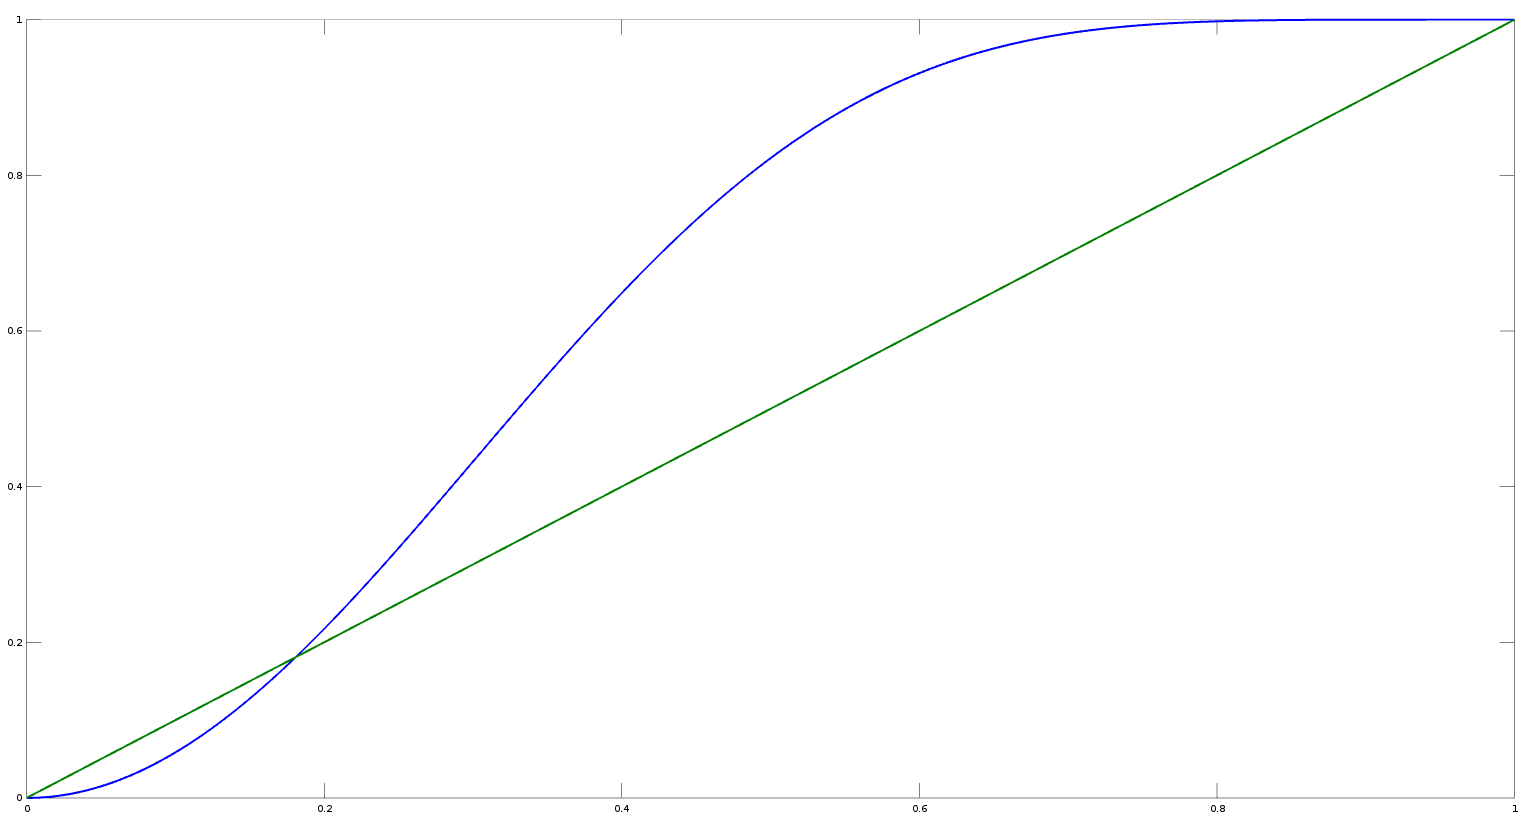
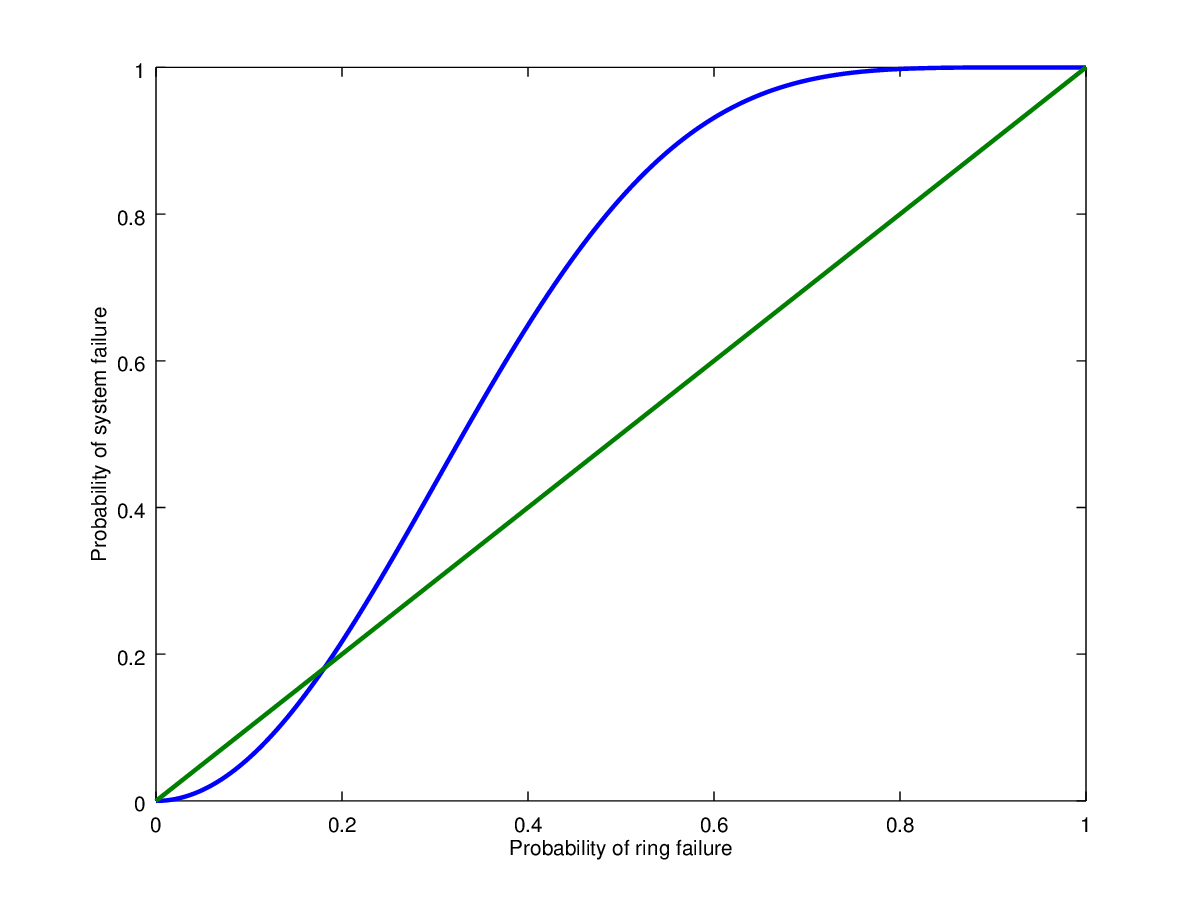
Added labels for images, and fixed header position

diff --git a/sem2-2017/stat2203/ass1.md b/sem2-2017/stat2203/ass1.md
@@ -77,7 +77,6 @@ $$$
 $$$
 
 # Question 4
-![Question 4 Answer](sem2-2017/stat2203/ass1.q4.png)[100]
 ```
 ~(blue)function~ result = ass1
   N = ~(green)1e3~;
@@ -87,6 +86,8 @@ $$$
     y(i) = systemFailure(x(i));
   end
   plot(x, y, ~(gold)"linewidth"~, ~(green)2~, x, x, ~(gold)"linewidth"~, 2);
+  xlabel(~(gold)"Probability of ring failure"~);
+  ylabel(~(gold)"Probability of system failure"~);
 ~(blue)endfunction~
 
 ~(blue)function~ result = linkSuccess(p)
@@ -105,7 +106,9 @@ $$$
   result = ~(green)1~ - systemSuccess(p);
 ~(blue)endfunction~
 ```
-
+By running the above code, we get the output provided below. The point at which `systemFailure(p) = p` occurs at points `[0, 0.18, 1]` as visible from the diagram below.
+![Question 4 Answer](sem2-2017/stat2203/ass1.q4.png)[100]
+\\
 # Question 5
 ```
 ~(blue)function~ result = ass1q5
@@ -162,6 +165,8 @@ Based on the code above, the output by running `ass1q5`, we can expect an answer
   ~(blue)endfor~
   result;
   hist(result, ~(green)-3~:~(green)3~);
+  xlabel(~(gold)"Sum of draw with replace"~);
+  ylabel(~(gold)"Number of sums"~);
 ~(blue)endfunction~
 
 ~(blue)function~ result = sumWithReplace
@@ -169,4 +174,4 @@ Based on the code above, the output by running `ass1q5`, we can expect an answer
 ~(blue)endfunction~
 ```
 The above code generates the following histogram:
-![Question 6 Answer](sem2-2017/stat2203/ass1.q6.png)[75]
+![Question 6 Answer](sem2-2017/stat2203/ass1.q6.png)[100]
